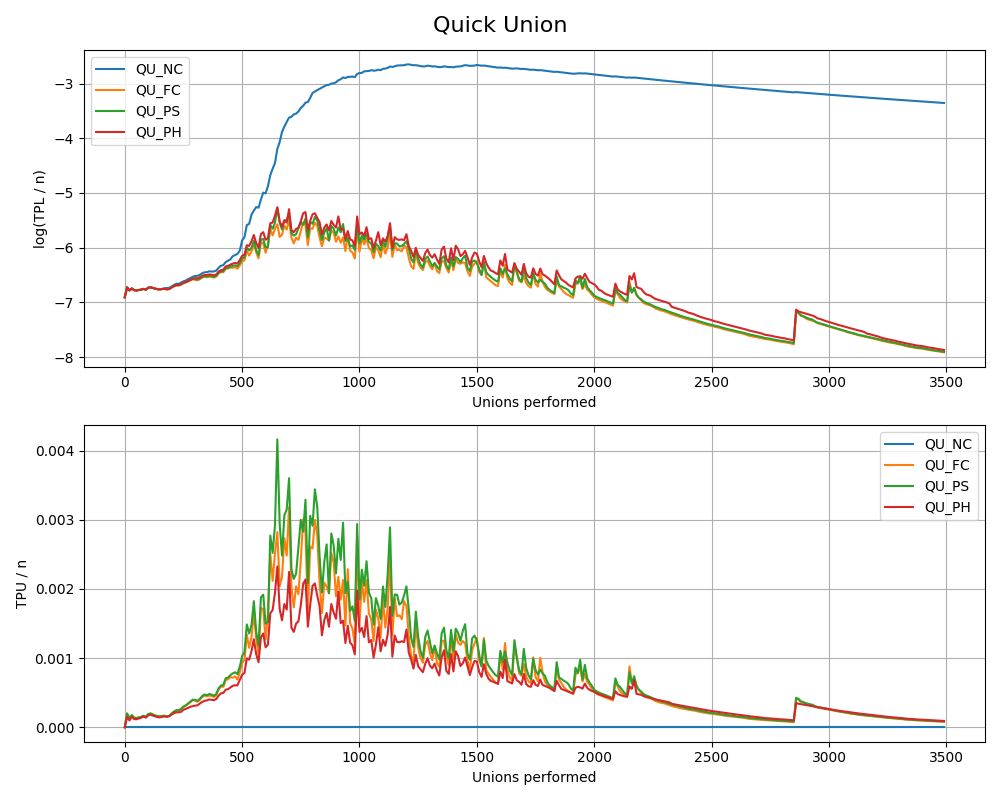
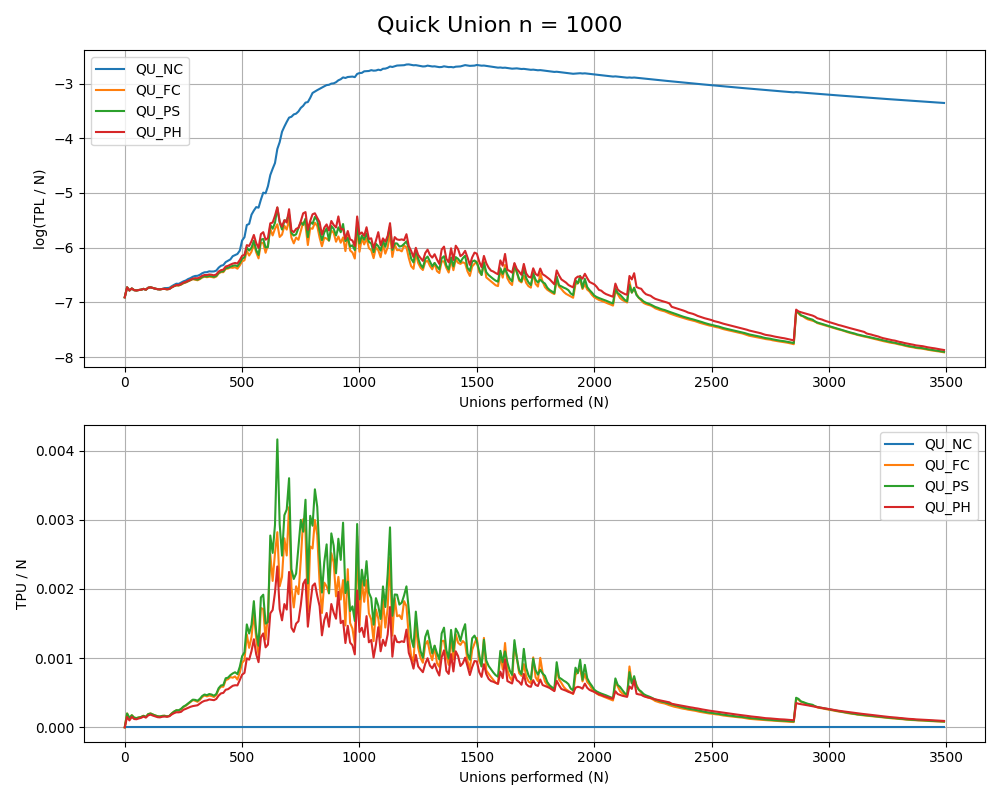
Last Commit

diff --git a/plotdata.py b/plotdata.py
@@ -1,0 +1,59 @@
+import pandas as pd
+import numpy as np
+import matplotlib.pyplot as plt
+import matplotlib as mpl
+
+# Parameters
+n = 5000
+del_val = 50
+epsilon = 2
+
+# Load data from CSV files without headers
+TPL_filename = f"data/dataTPL_n{n}_del{del_val}.csv"
+TPU_filename = f"data/dataTPU_n{n}_del{del_val}.csv"
+
+TPL_data = pd.read_csv(TPL_filename, header=None)
+TPU_data = pd.read_csv(TPU_filename, header=None)
+
+# Define cost functions
+def calculate_cost_NC(TPL):
+    return TPL
+
+def calculate_cost_FC(TPL, TPU):
+    return 2 * TPL + epsilon * TPU
+
+def calculate_cost_PS_PH(TPL, TPU):
+    return TPL + epsilon * TPU
+
+# Plotting
+plt.set_cmap('tab10')
+fig, ax = plt.subplots(figsize=(10, 6))
+# Loop over the data and calculate costs for different methods
+for row_tpl, row_tpu in zip(TPL_data.iterrows(), TPU_data.iterrows()):
+    method_name = row_tpl[1][0]
+    #if method_name.startswith('QU_'):
+    #    continue
+    
+    tpl_values = row_tpl[1][1:]
+    tpu_values = row_tpu[1][1:]
+    
+    # Calculate costs based on method name
+    if method_name.endswith("_NC"):
+        costs = [calculate_cost_NC(tpl) for tpl in tpl_values]
+    elif method_name.endswith("_FC"):
+        costs = [calculate_cost_FC(tpl, tpu) for tpl, tpu in zip(tpl_values, tpu_values)]
+    elif method_name.endswith("_PS") or method_name.endswith("_PH"):
+        costs = [calculate_cost_PS_PH(tpl, tpu) for tpl, tpu in zip(tpl_values, tpu_values)]
+    
+    # Plot the costs
+    ax.plot(range(0, len(costs) * del_val, del_val), costs, label=method_name)
+
+ax.set_xlabel("Unions performed")
+ax.set_ylabel("Cost")
+ax.set_title(f"Cost comparison with epsilon={epsilon}")
+#ax.set_ylim(0, 15000)
+ax.legend()
+ax.grid(True)
+
+plt.tight_layout()
+plt.savefig(f"Cost comparison eps={epsilon} n={n}")

diff --git a/plotdata2.py b/plotdata2.py
@@ -3,8 +3,8 @@ import numpy as np
 import matplotlib.pyplot as plt
 
 # Parameters
-n = 10000
-del_val = 100
+n = 5000
+del_val = 50
 
 # Load data from CSV files without headers
 TPL_filename = f"data/dataTPL_n{n}_del{del_val}.csv"
@@ -33,7 +33,7 @@ for row in QU_TPL_data.iterrows():
     ax1.plot(range(0, len(adjusted_values) * del_val, del_val), np.log(adjusted_values), label=f"{method_name}")
 
 ax1.set_xlabel("Unions performed (N)")
-ax1.set_ylabel("log(TPL / n)")
+ax1.set_ylabel("log(TPL / N)")
 ax1.legend()
 ax1.grid(True)
 
@@ -50,7 +50,7 @@ ax2.legend()
 ax2.grid(True)
 
 
-fig.suptitle("Quick Union", fontsize=16)
+fig.suptitle(f"Quick Union n = {n}", fontsize=16)
 
 plt.tight_layout()
 plt.savefig(f"plots/QU_n={n}_del={del_val}")
@@ -82,7 +82,7 @@ ax2.set_ylabel("TPU / N")
 ax2.legend()
 ax2.grid(True)
 
-fig.suptitle("Union by Rank", fontsize=16)
+fig.suptitle(f"Union by Rank n = {n}", fontsize=16)
 
 plt.tight_layout()
 plt.savefig(f"plots/UR_n={n}_del={del_val}")
@@ -115,7 +115,7 @@ ax2.set_ylabel("TPU / N")
 ax2.legend()
 ax2.grid(True)
 
-fig.suptitle("Union by Weight", fontsize=16)
+fig.suptitle(f"Union by Weight n = {n}", fontsize=16)
 
 plt.tight_layout()
 plt.savefig(f"plots/UW_n={n}_del={del_val}")
